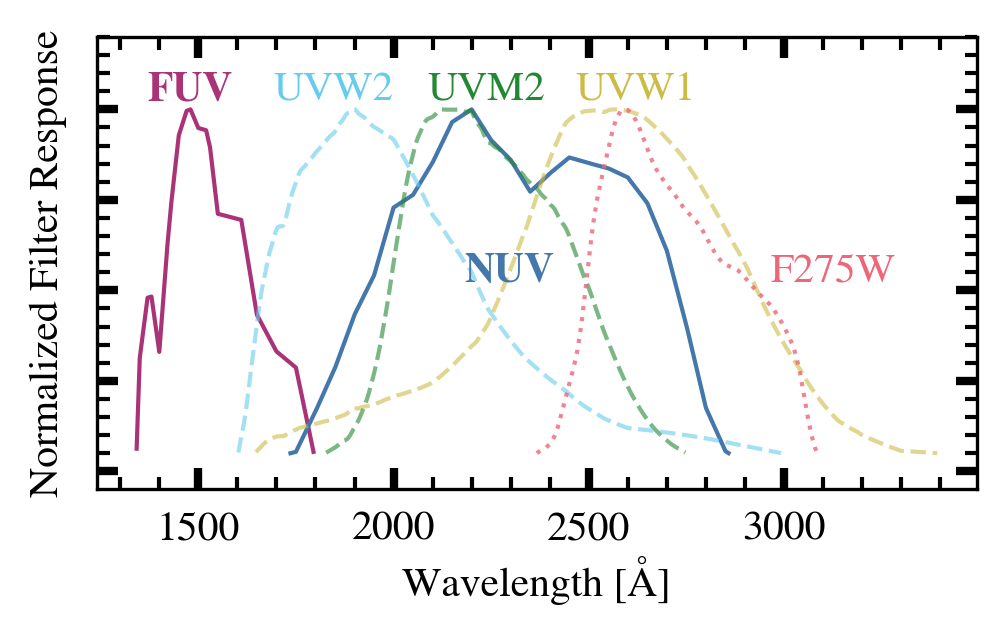
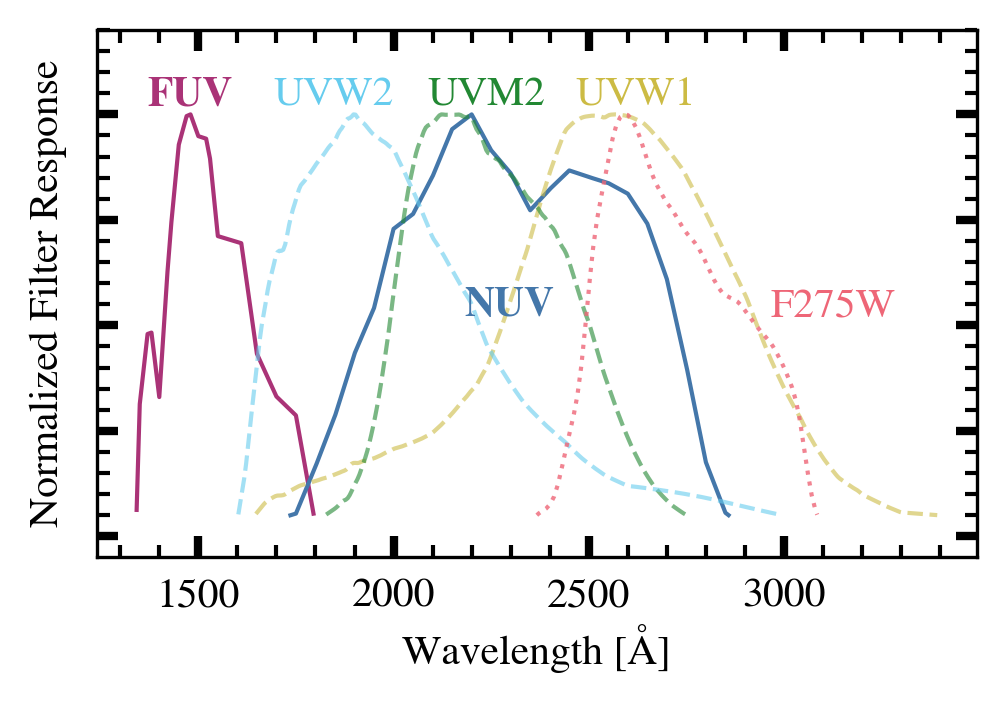
adjust filter figure size

diff --git a/plot_filters.py b/plot_filters.py
@@ -4,7 +4,7 @@ import matplotlib.pyplot as plt
 import matplotlib.ticker as ticker
 from pathlib import Path
 
-fig, ax = plt.subplots()
+fig, ax = plt.subplots(figsize=(3.25, 2.25))
 
 # Import reference info
 ref = pd.read_csv(Path('ref/filters.csv'), index_col='name')
